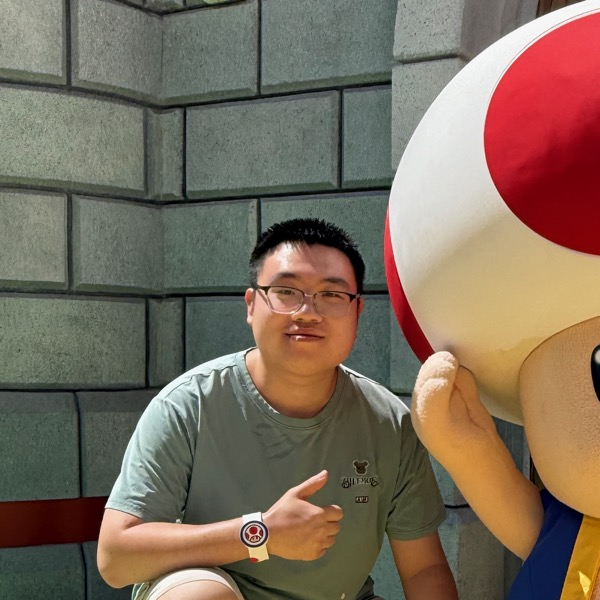
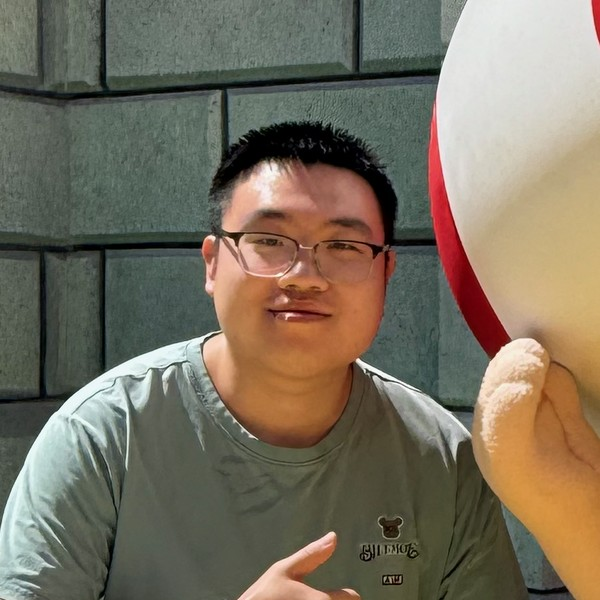
Update publications, recrop profile photo, trim news to past year
- EvaLooop accepted to ACM TOSEM; add multilingual-prompts TOSEM paper
  and CodeQL taint-tracking robustness preprint
- Recrop profile photo so the face is larger and better centered
- Keep only the past year of news items
- Sync CV with EvaLooop status; bump sitemap lastmod and footer date

diff --git a/index.html b/index.html
@@ -89,15 +89,39 @@
       <li><span class="date">May 2026</span><span>Received my M.S. in Computer Science from NC State.</span></li>
       <li><span class="date">Mar 2026</span><span>Received Ph.D. offer from NCSU; joining Prof. Bowen Xu's group in Fall 2026.</span></li>
       <li><span class="date">Mar 2026</span><span>New preprint: <em>AEGIS</em> — graph-guided multi-agent vulnerability reasoning. <a href="#aegis">Details</a>.</span></li>
-      <li><span class="date">Jul 2025</span><span>Wrapped up a summer internship at <a href="https://www.hedra.com/">Hedra</a>, San Francisco.</span></li>
-      <li><span class="date">May 2025</span><span>Preprint: <em>EVALOOOP</em> — loop-based robustness evaluation for code LLMs. <a href="https://evalooop.github.io">Leaderboard</a>.</span></li>
-      <li><span class="date">Mar 2025</span><span>Preprint: <em>Smaller = Weaker?</em> — robustness of quantized code LLMs. <a href="https://arxiv.org/abs/2506.22776">arXiv</a>.</span></li>
     </ul>
   </section>
 
   <section>
     <h2>Publications</h2>
     <p class="note">See <a href="https://scholar.google.com/citations?user=HGMx0AQAAAAJ">Google Scholar</a> for the full list.</p>
+
+    <article class="pub" id="codeql">
+      <h3>Preserve the Vulnerability, Break the Alert: Testing the Robustness of CodeQL Taint Tracking with Natural Rewrites</h3>
+      <p class="authors">Zhezhen Cao, <strong>Weiyuan Ding</strong>, Bowen Xu</p>
+      <p class="venue">Preprint, 2026. <a href="https://arxiv.org/abs/2611.17123">arXiv</a></p>
+      <p class="abstract">
+        Tests whether a vanished static-analysis alert really means a fixed vulnerability.
+        An LLM, given only CodeQL's alert output, applies plausible maintenance rewrites
+        along reported JavaScript taint flows. On 172 flows from real npm vulnerabilities,
+        three rewrites per flow silenced 26.2% of alerts (about $0.51 per silenced flow),
+        while a refactoring-only control silenced none. Every silencing rewrite traces to
+        one of seven library-modeling gaps, most inside APIs CodeQL already models.
+      </p>
+    </article>
+
+    <article class="pub" id="multilingual">
+      <h3>Large Language Models for Code Generation from Multilingual Prompts: A Curated Benchmark and a Study on Code Quality</h3>
+      <p class="authors">Saima Afrin, Alessandro Midolo, Camilo Escobar-Vel&aacute;squez, Mario Linares-V&aacute;squez, <strong>Weiyuan Ding</strong>, Bowen Xu, Massimiliano Di Penta, Antonio Mastropaolo</p>
+      <p class="venue">ACM Transactions on Software Engineering and Methodology (TOSEM). <a href="https://arxiv.org/abs/2607.14816">arXiv</a></p>
+      <p class="abstract">
+        A curated benchmark of 460 Python and Java tasks with prompts translated into
+        Chinese, Hindi, Spanish, and Italian, used to study how prompt language affects
+        code generated by GPT-4o mini, DeepSeek, and Claude. English prompts do not
+        consistently yield the best correctness or quality; the effect depends on both
+        the programming language and the model.
+      </p>
+    </article>
 
     <article class="pub" id="aegis">
       <h3>AEGIS: From Clues to Verdicts — Graph-Guided Deep Vulnerability Reasoning via Dialectics and Meta-Auditing</h3>
@@ -115,12 +139,12 @@
     </article>
 
     <article class="pub" id="evalooop">
-      <h3>EVALOOOP: A Self-Consistency-Centered Framework for Assessing Large Language Model Robustness in Programming</h3>
+      <h3>EvaLooop: A Self-Consistency-Centered Framework for Assessing Large Language Model Robustness in Programming</h3>
       <p class="authors"><a href="https://tomasandersonfang.github.io">Sen Fang</a>, <strong>Weiyuan Ding</strong>, Mengshi Zhang, Zihao Chen, Bowen Xu</p>
-      <p class="venue">Preprint, 2026. <a href="https://arxiv.org/abs/2505.12185">arXiv</a> &middot; <a href="https://evalooop.github.io">Leaderboard</a> &middot; <a href="https://github.com/evalooop/EvaLooop">Code</a></p>
+      <p class="venue">ACM Transactions on Software Engineering and Methodology (TOSEM). <a href="https://arxiv.org/abs/2505.12185">arXiv</a> &middot; <a href="https://evalooop.github.io">Leaderboard</a> &middot; <a href="https://github.com/evalooop/EvaLooop">Code</a></p>
       <p class="abstract">
         A loop-based robustness evaluation that alternates code generation and
-        summarization on the same task. Applied to 100+ LLMs (incl. Claude Opus 4,
+        summarization on the same task. Applied to 96 LLMs (incl. Claude Opus 4,
         DeepSeek-V3), we observe a 2.65%–47.62% pass@1 drop over 10 loops, and find
         that robustness is not strictly tied to initial accuracy.
       </p>
@@ -217,7 +241,7 @@
   </section>
 
   <footer>
-    <p>&copy; <span id="year"></span> Weiyuan Ding. Last updated August 2026.</p>
+    <p>&copy; <span id="year"></span> Weiyuan Ding. Last updated November 2026.</p>
   </footer>
 
 </main>
